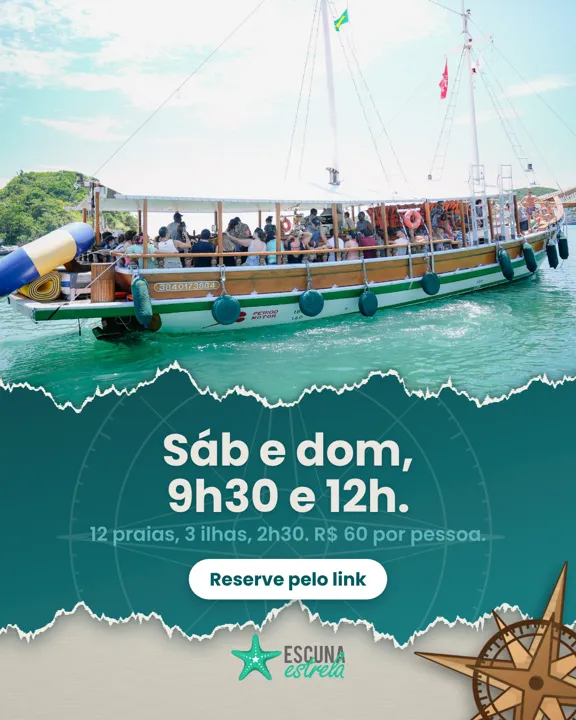
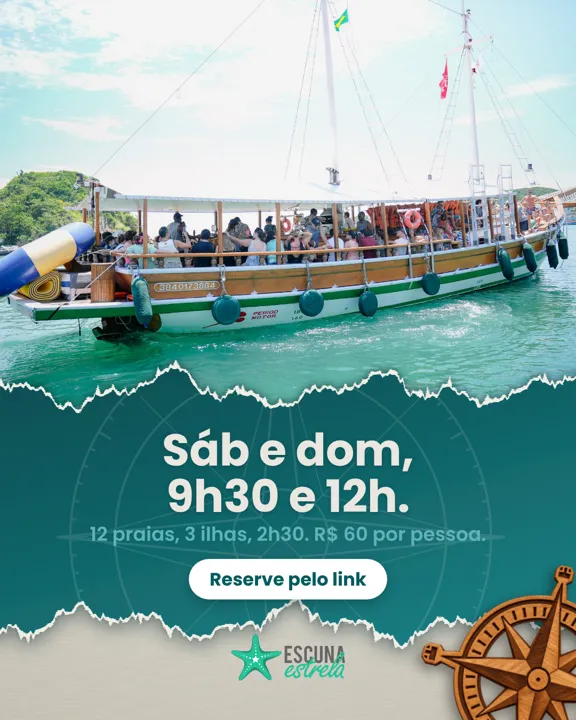
feat(criativos): rosa de madeira 02 (pontas cardeais) vira a padrão
Escolha do dono em 09/out. Molde A usa o PNG 02 por padrão e os prompts
das artes base passam a citar esse arquivo como referência de estilo.

Claude-Session: https://claude.ai/code/session_016ARSNAECKu73yHJ9gLAVus

Changed region(s): [[0.7188, 0.7639, 1.0, 1.0]]

diff --git a/public/brand/escuna-estrela/elementos/README.md b/public/brand/escuna-estrela/elementos/README.md
@@ -1,0 +1,8 @@
+# Elementos da Escuna Estrela
+
+| Arquivo | O que é | Uso |
+|---|---|---|
+| `rosa-dos-ventos-madeira-02.png` | **Rosa de madeira padrão** (escolha do dono, 09/out): 8 pontas com terminais cardeais, 1000 px, fundo transparente, gerada no Higgsfield | molde A (`.wood`), referência de estilo nos prompts das artes base |
+| `rosa-dos-ventos-madeira-01.png` | Variante sem terminais cardeais | alternativa |
+
+Ao gerar artes base no Higgsfield, subir a rosa padrão como referência e pedir "the wooden compass rose exactly like reference image N" pra manter o mesmo modelo em todas as peças.

diff --git a/scripts/creatives/prompts/base-foto-faixa.md b/scripts/creatives/prompts/base-foto-faixa.md
@@ -15,3 +15,5 @@ hand-made paper collage feel. Absolutely no typography of any kind.
 ```
 
 Zonas que funcionaram com essa arte (spec `exemplo-molde-hf.json`): texto `x6 y58 w88 h25`, logo `x32 y87 w36 h9`.
+
+Rosa de madeira: usar `public/brand/escuna-estrela/elementos/rosa-dos-ventos-madeira-02.png` como referência extra e trocar "a carved wooden compass rose" por "the wooden compass rose exactly like reference image N" (modelo escolhido pelo dono).
